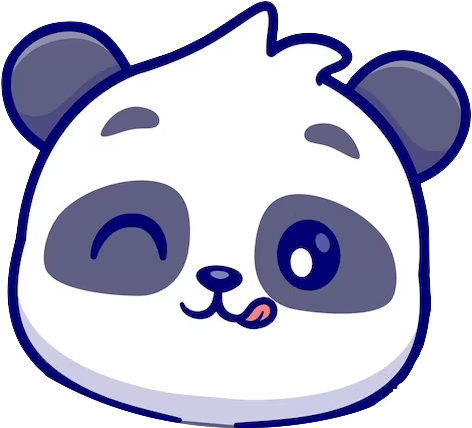
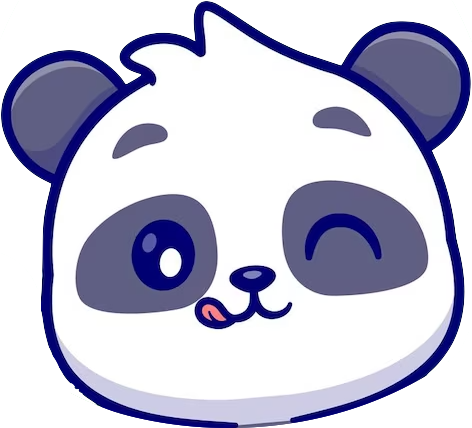
Panda face added to top link bar

diff --git a/components/room/LinkComponent.vue b/components/room/LinkComponent.vue
@@ -1,11 +1,14 @@
 <template>
-  <div class="shadow-sm bg-light pt-2 pb-1 d-flex flex-column justify-content-center room-link-div text-center">
-    <p style="font-family: 'Cera Round Pro Bold', sans-serif" class="my-0">{{ $t('lobby.inviteFriends') }}</p>
-    <b-link ref="roomLink" @click="copyLinkToClipboard()" class="room-link">
-      {{ roomLink }}
-    </b-link>
-    <p class="my-0" v-if="copied" style="font-family: 'Cera Round Pro Bold', sans-serif">{{ $t('general.copied') }}</p>
-    <p class="my-0" v-else @click="copyLinkToClipboard()">{{ $t('general.clickToCopyToClipboard') }}</p>
+  <div>
+    <b-img @click="goHome" class="d-none d-sm-block panda-face-img m-2" src="~/assets/images/panda-wink-2.png"/>
+    <div class="shadow-sm bg-light pt-2 pb-1 d-flex flex-column justify-content-center room-link-div text-center">
+      <p style="font-family: 'Cera Round Pro Bold', sans-serif" class="my-0 mx-auto">{{ $t('lobby.inviteFriends') }}</p>
+      <b-link ref="roomLink" @click="copyLinkToClipboard()" class="room-link mx-auto">
+        {{ roomLink }}
+      </b-link>
+      <p class="my-0 mx-auto" v-if="copied" style="font-family: 'Cera Round Pro Bold', sans-serif">{{ $t('general.copied') }}</p>
+      <p class="my-0 mx-auto width-au" v-else @click="copyLinkToClipboard()">{{ $t('general.clickToCopyToClipboard') }}</p>
+    </div>
   </div>
 </template>
 
@@ -35,7 +38,9 @@ export default {
         roomLinkRef.$el.style.opacity = 1
       }, 300)
       setTimeout(() => { this.copied = false }, 1000)
-    }
+    },
+
+    goHome() { this.$router.push('/') },
   },
 
   props: [
@@ -45,6 +50,15 @@ export default {
 </script>
 
 <style>
+.panda-face-img {
+  z-index: 2;
+  height: 4.5rem;
+  position: fixed;
+  top: 0;
+  left: 0;
+  cursor: pointer;
+}
+
 .room-link-div {
   position: fixed;
   width: 100vw;
